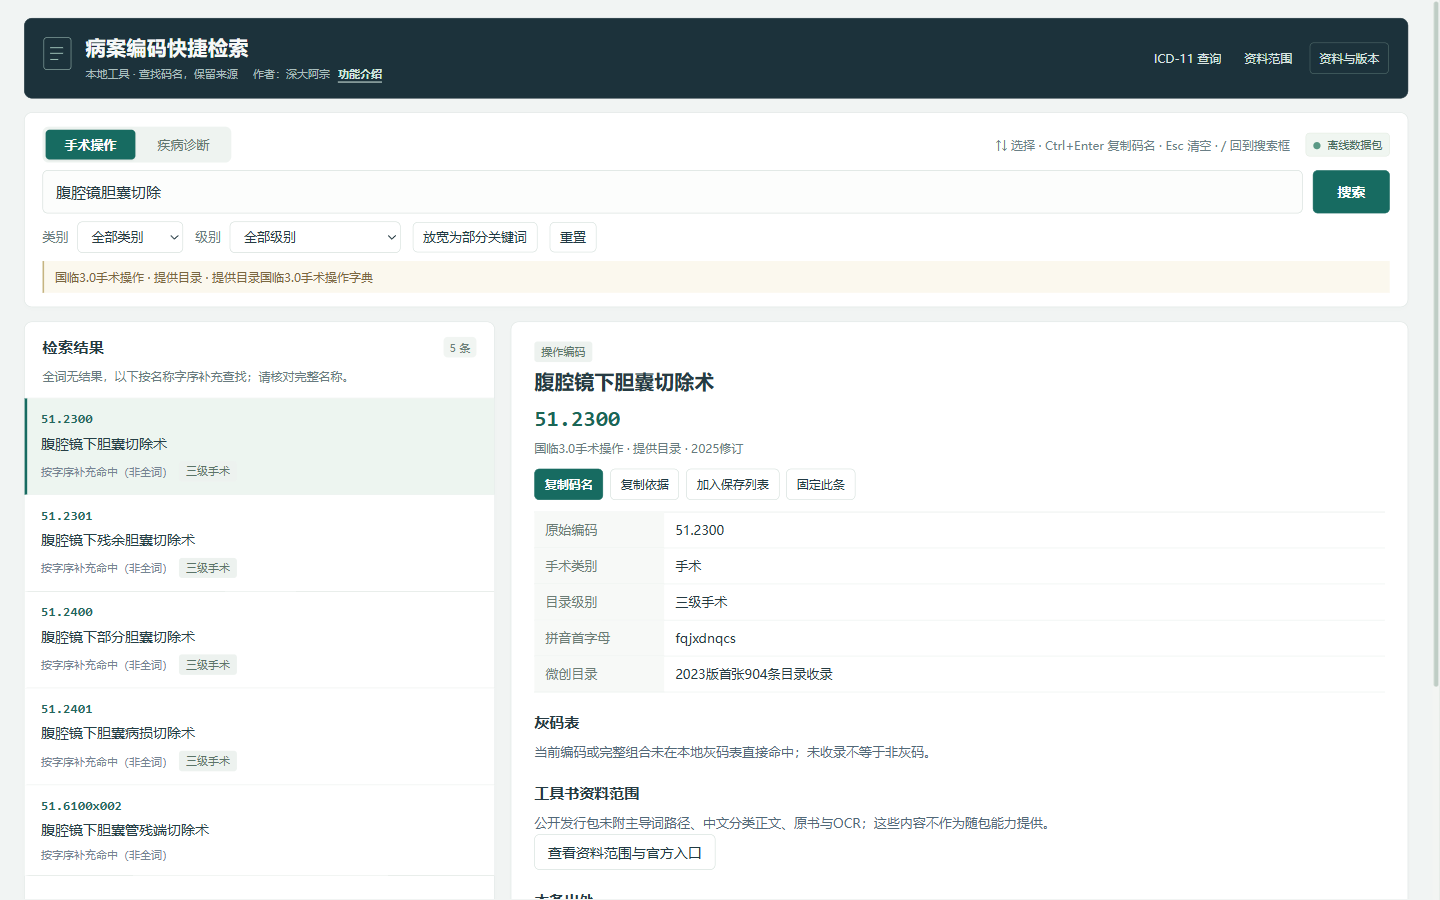
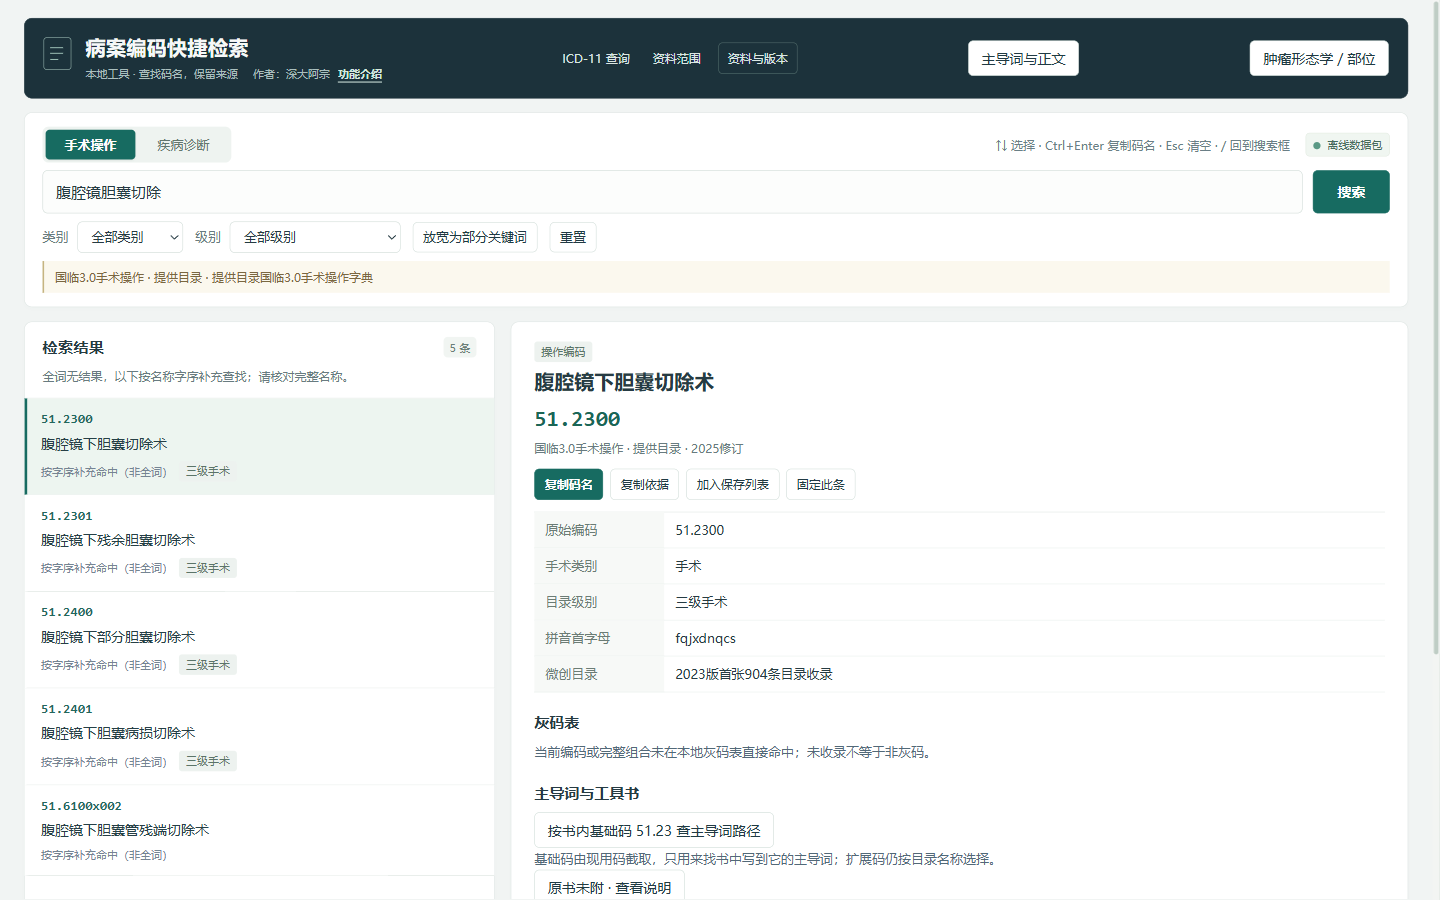
docs: expand module guide and credit 深大阿宗; release 0.3.0

diff --git a/README.md b/README.md
@@ -1,19 +1,19 @@
 # 病案编码快捷检索
 
-病案编码快捷检索是一款面向病案编码、病案管理与编码学习场景的 Windows 离线工具。提供**诊断编码检索、手术操作编码检索、灰码标记与差异查阅、WHO ICD-11 中英文简表查询、本次查阅与常用收藏、条目备注、固定参照、码名及依据复制、JSON 备份导入导出**等功能。
+病案编码快捷检索是一款面向病案编码、病案管理与编码学习场景的 Windows 离线工具。提供**诊断编码检索、手术操作编码检索、灰码标记与差异查阅、WHO ICD-11 中英文简表查询、本次查阅与常用收藏、条目备注、固定参照、码名及依据复制、JSON 备份导入导出**等功能。**0.3.0新增主导词路径、分类正文及ICD-O-4肿瘤形态学／部位／变更查询界面，使用者导入自有资料后启用；这些数据不随公开下载包分发。**
 
 支持按编码、中文名称、多关键词和拼音首字母查找；连续中文全词无结果时，还可按字序补充查找并注明命中原因。候选列表和条目详情并列显示，方便查找码名、核对编码原文与资料版本、整理日常查阅记录。
 
 **作者：深大阿宗。免费提供，请勿购买。** 无需账号，检索与个人保存可离线使用；打开官方参考网站时需要联网。
 
-**当前版本：0.2.4（2026-10-24），公开发行版。暂不公开独立源码工程。**
+**当前版本：0.3.0（2026-10-26），公开发行版。暂不公开独立源码工程。**
 
 项目名称：病案编码快捷检索  
 官方项目网址：https://github.com/MRxu-1/medical-record-search
 
 ## 下载与运行
 
-打开本项目 **[最新版本下载](https://github.com/MRxu-1/medical-record-search/releases/latest)**，下载 `medical-record-search-v0.2.4-win-x64.zip`。完整解压后双击 `病案编码快捷检索.exe`，保留旁边的 DLL 与“程序资源”文件夹。不要下载 GitHub 自动生成的“Source code”压缩包来运行，那只是本仓库说明文件的快照。
+打开本项目 **[最新版本下载](https://github.com/MRxu-1/medical-record-search/releases/latest)**，下载 `medical-record-search-v0.3.0-win-x64.zip`。完整解压后双击 `病案编码快捷检索.exe`，保留旁边的 DLL 与“程序资源”文件夹。不要下载 GitHub 自动生成的“Source code”压缩包来运行，那只是本仓库说明文件的快照。
 
 需要 Windows 10/11 64 位、.NET Framework 4.6.2 或以上，以及 [Microsoft Edge WebView2 Runtime](https://developer.microsoft.com/microsoft-edge/webview2/)；运行环境未捆绑。检索可离线使用，官方参考网站需要主动联网。未测试所有 Windows 10/11 环境。
 
@@ -65,12 +65,6 @@
 
 个人保存位于当前Windows用户的程序专用目录，不在下载包内。公开版与先前测试版使用不同的个人目录；需要迁移时自行导出／导入备份。更新前导出JSON备份，再完整替换解压目录。没有自动更新服务。
 
-## 本机检查范围
-
-2026-10-24从最终ZIP独立解压并运行实际EXE，中文作者署名可见，检索、成对／组合及仅附加编码、ICD-11、复制拒绝回退和保存重开6项检查通过。另有24项混淆后的核心逻辑样例及7项发行／数据／保护检查通过，截图来自无个人数据的隔离实例。
-
-检查范围为本机WebView2，不代表所有Windows 10/11电脑验收。真实鼠标复制到系统剪贴板及原生备份另存为本轮未测，复制拒绝回退采用模拟；本版未作数字签名。代码混淆提高分析修改成本，不保证AI或其他工具无法还原。
-
 ## 免费使用及来源
 
 本项目免费提供，不授权自有程序收费转售、付费捆绑、去除来源或冒名发布。请从本项目 Releases 获取版本并对照 SHA256SUMS.txt。该校验值可核对下载文件，不等于数字签名；本版未进行代码签名。
@@ -82,3 +76,6 @@
 请在 Issues 提供软件版本、Windows版本、查询词、预期结果与实际现象。请先清除截图及日志中的个人备注、患者信息和院内地址，不要上传个人备份或完整病历。
 
 本工具用于编码查阅，适用性由使用者结合目录和要求核对。WHO、IARC及其他机构未认可或背书本软件。
+
+新增：主导词路径、分类正文及ICD-O-4形态学／部位／变更查询界面，支持本机导入自有资料。以上数据不随公开包分发。ICD-11中英文简表原已提供，本版继续保留。
+使用：首页点击资料范围，选择查询资料JSON文件，校验保存后打开主导词或肿瘤查询。仅支持本工具整理后的结构化资料包，不能直接导入任意Excel、PDF、其他软件或收藏备份；资料格式整理可由作者协助。本机导入不公开也不上传。再次导入整体替换可选资料，收藏不变。

diff --git a/CHANGELOG.md b/CHANGELOG.md
@@ -1,10 +1,13 @@
 # 更新记录
 
-0.2.4 · 2026-10-24 · 公开发行版
+0.3.0 · 2026-10-26 · 公开发行版
 作者：深大阿宗。软件首页、关于、功能介绍和GitHub首页加入中文作者署名；仓库简介与首页扩充各功能模块及查询示例。
-新增自有EXE符号／字符串隐藏、五个应用脚本标识符／字符串混淆，关闭窗口开发者工具；映射表、调试符号、源码映射及构建工具不随包发送。数据包不混淆。
+新增自有EXE符号／字符串隐藏、八个应用脚本标识符／字符串混淆，关闭窗口开发者工具；映射表、调试符号、源码映射及构建工具不随包发送。数据包不混淆。
 基于0.2.0对外测试版，保留统一界面、诊断与手术、灰码、保存复制和ICD-11公开简表。
 本包不附再分发范围尚未确认的主导词路径、中文分类正文、ICD-O-4整表；WHO ICD-10 2019旧包未保留完整URI，本轮也不附。
 未附原书PDF、OCR、个人记录、原Excel、研究材料、源码工程、构建脚本及Git历史。
 官方项目网址已补入软件首页、关于、说明及发布介绍：https://github.com/MRxu-1/medical-record-search
 与本机版、0.2.0测试包及个人保存目录分开维护。功能省略已在界面明确说明。
+
+新增：主导词路径、分类正文及ICD-O-4形态学／部位／变更查询界面，支持本机导入自有资料。以上数据不随公开包分发。ICD-11中英文简表原已提供，本版继续保留。
+使用：首页点击资料范围，选择查询资料JSON文件，校验保存后打开主导词或肿瘤查询。仅支持本工具整理后的结构化资料包，不能直接导入任意Excel、PDF、其他软件或收藏备份；资料格式整理可由作者协助。本机导入不公开也不上传。再次导入整体替换可选资料，收藏不变。
